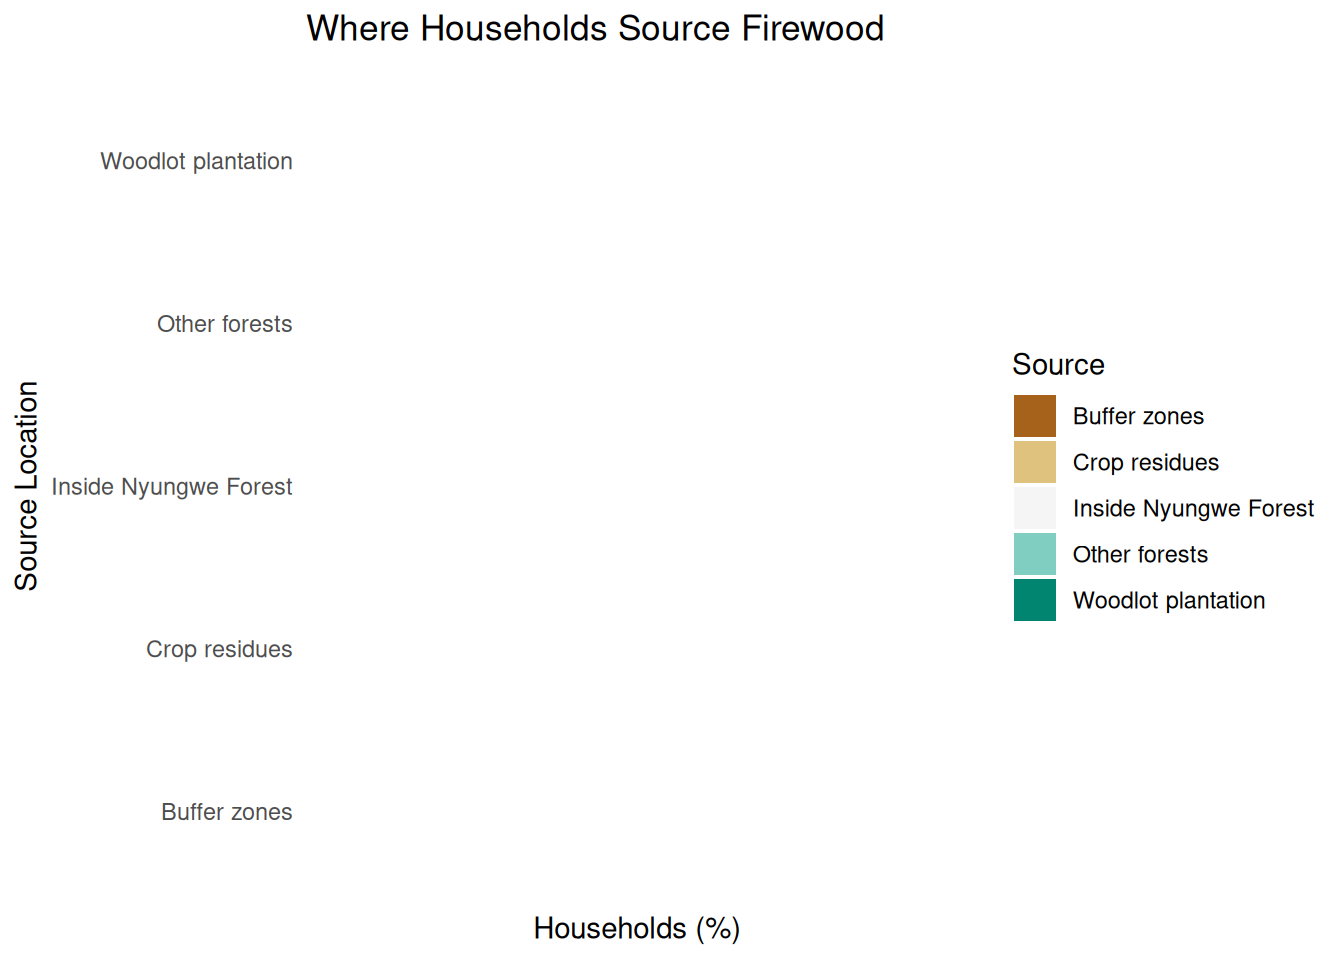
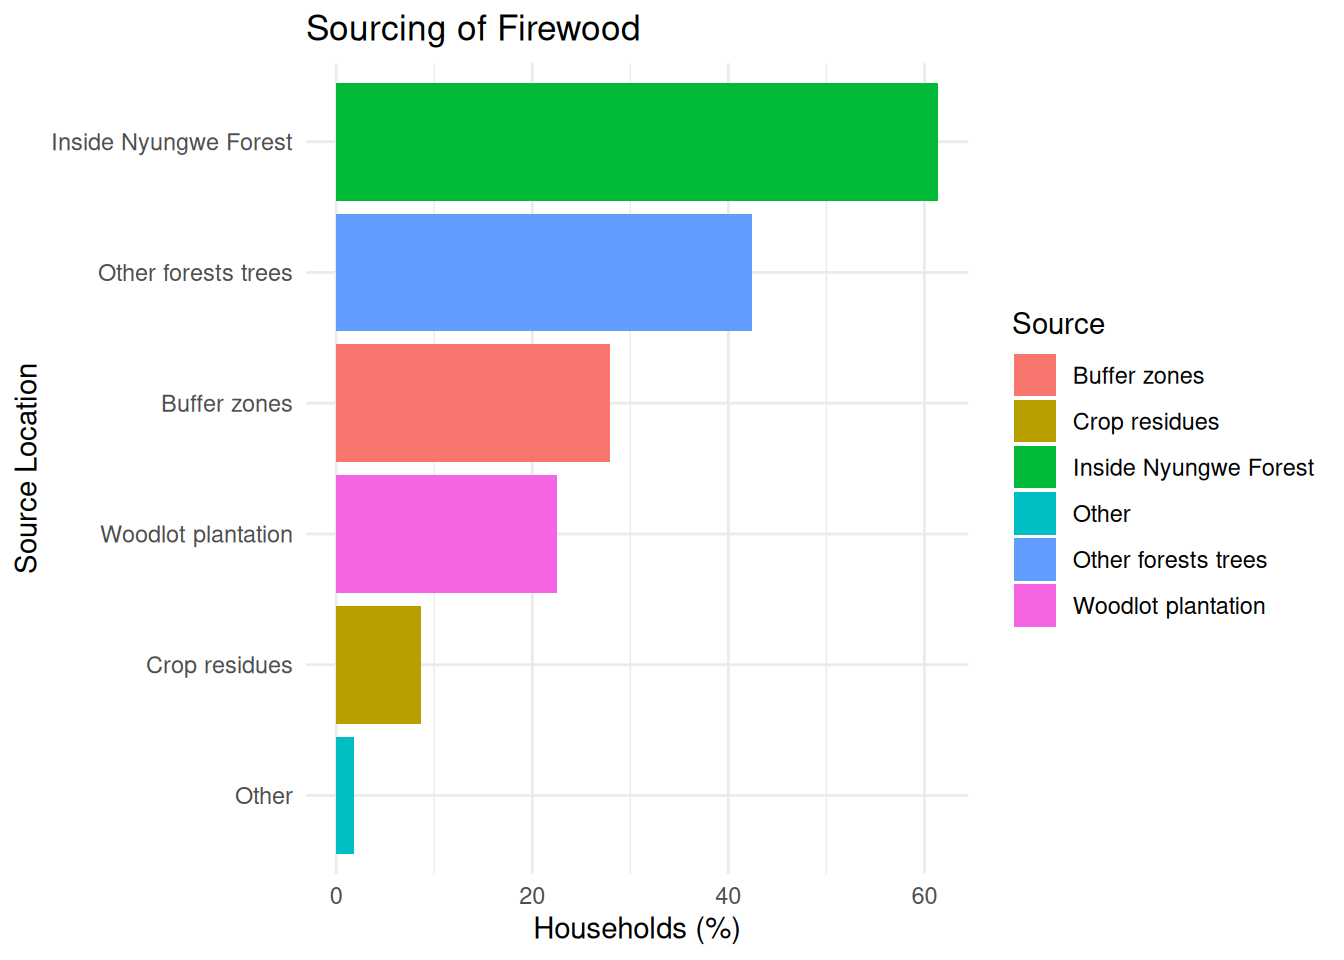
work at the end point

diff --git a/docs/index.html b/docs/index.html
@@ -7,7 +7,7 @@
 <meta name="viewport" content="width=device-width, initial-scale=1.0, user-scalable=yes">
 
 <meta name="author" content="Hategekimana Denys">
-<meta name="dcterms.date" content="2026-07-14">
+<meta name="dcterms.date" content="2026-07-15">
 
 <title>Data Exploration for Park Conservation Assessment</title>
 <style>
@@ -138,7 +138,7 @@ pre > code.sourceCode > span > a:first-child::before { text-decoration: underlin
     <div>
     <div class="quarto-title-meta-heading">Published</div>
     <div class="quarto-title-meta-contents">
-      <p class="date">July 14, 2026</p>
+      <p class="date">July 15, 2026</p>
     </div>
   </div>
   
@@ -1467,31 +1467,26 @@ Figure&nbsp;2: Distribution of household size among surveyed households.
 <div class="cell">
 <div class="code-copy-outer-scaffold"><div class="sourceCode cell-code" id="cb17"><pre class="sourceCode r code-with-copy"><code class="sourceCode r"><span id="cb17-1"><a href="#cb17-1" aria-hidden="true" tabindex="-1"></a>lighting_pct <span class="ot">&lt;-</span> park_data_clean <span class="sc">|&gt;</span></span>
 <span id="cb17-2"><a href="#cb17-2" aria-hidden="true" tabindex="-1"></a>  <span class="fu">summarise</span>(</span>
-<span id="cb17-3"><a href="#cb17-3" aria-hidden="true" tabindex="-1"></a>    <span class="at">Firewood =</span> <span class="fu">mean</span>(x4_1_what_is_the_source_of_lighting_in_your_house_choose_many_as_you_can_firewood, <span class="at">na.rm =</span> <span class="cn">TRUE</span>),</span>
-<span id="cb17-4"><a href="#cb17-4" aria-hidden="true" tabindex="-1"></a>    <span class="at">Solar =</span> <span class="fu">mean</span>(x4_1_what_is_the_source_of_lighting_in_your_house_choose_many_as_you_can_solar_energy, <span class="at">na.rm =</span> <span class="cn">TRUE</span>),</span>
-<span id="cb17-5"><a href="#cb17-5" aria-hidden="true" tabindex="-1"></a>    <span class="at">Grid =</span> <span class="fu">mean</span>(x4_1_what_is_the_source_of_lighting_in_your_house_choose_many_as_you_can_electricity_from_grid, <span class="at">na.rm =</span> <span class="cn">TRUE</span>)</span>
-<span id="cb17-6"><a href="#cb17-6" aria-hidden="true" tabindex="-1"></a>  ) <span class="sc">|&gt;</span></span>
-<span id="cb17-7"><a href="#cb17-7" aria-hidden="true" tabindex="-1"></a>  <span class="fu">pivot_longer</span>(<span class="fu">everything</span>(), <span class="at">names_to =</span> <span class="st">"Source"</span>, <span class="at">values_to =</span> <span class="st">"Share"</span>)</span>
-<span id="cb17-8"><a href="#cb17-8" aria-hidden="true" tabindex="-1"></a></span>
-<span id="cb17-9"><a href="#cb17-9" aria-hidden="true" tabindex="-1"></a><span class="fu">ggplot</span>(</span>
-<span id="cb17-10"><a href="#cb17-10" aria-hidden="true" tabindex="-1"></a>  lighting_pct,</span>
-<span id="cb17-11"><a href="#cb17-11" aria-hidden="true" tabindex="-1"></a>  <span class="fu">aes</span>(<span class="fu">reorder</span>(Source, Share), Share <span class="sc">*</span> <span class="dv">100</span>, <span class="at">fill =</span> Source)</span>
-<span id="cb17-12"><a href="#cb17-12" aria-hidden="true" tabindex="-1"></a>) <span class="sc">+</span></span>
-<span id="cb17-13"><a href="#cb17-13" aria-hidden="true" tabindex="-1"></a>  <span class="fu">geom_col</span>() <span class="sc">+</span></span>
-<span id="cb17-14"><a href="#cb17-14" aria-hidden="true" tabindex="-1"></a>  <span class="fu">coord_flip</span>() <span class="sc">+</span></span>
-<span id="cb17-15"><a href="#cb17-15" aria-hidden="true" tabindex="-1"></a>  <span class="fu">scale_fill_brewer</span>(<span class="at">palette =</span> <span class="st">"Set2"</span>) <span class="sc">+</span></span>
-<span id="cb17-16"><a href="#cb17-16" aria-hidden="true" tabindex="-1"></a>  <span class="fu">labs</span>(</span>
-<span id="cb17-17"><a href="#cb17-17" aria-hidden="true" tabindex="-1"></a>    <span class="at">title =</span> <span class="st">"Household Lighting Sources"</span>,</span>
-<span id="cb17-18"><a href="#cb17-18" aria-hidden="true" tabindex="-1"></a>    <span class="at">x =</span> <span class="st">"Lighting Source"</span>,</span>
-<span id="cb17-19"><a href="#cb17-19" aria-hidden="true" tabindex="-1"></a>    <span class="at">y =</span> <span class="st">"Households (%)"</span>,</span>
-<span id="cb17-20"><a href="#cb17-20" aria-hidden="true" tabindex="-1"></a>    <span class="at">fill =</span> <span class="st">"Source"</span></span>
-<span id="cb17-21"><a href="#cb17-21" aria-hidden="true" tabindex="-1"></a>  ) <span class="sc">+</span></span>
-<span id="cb17-22"><a href="#cb17-22" aria-hidden="true" tabindex="-1"></a>  <span class="fu">theme_minimal</span>()</span></code></pre></div><button title="Copy to Clipboard" class="code-copy-button"><i class="bi"></i></button></div>
+<span id="cb17-3"><a href="#cb17-3" aria-hidden="true" tabindex="-1"></a>    <span class="at">Firewood =</span> <span class="fu">mean</span>(<span class="fu">as.numeric</span>(x4_1_what_is_the_source_of_lighting_in_your_house_choose_many_as_you_can_firewood), <span class="at">na.rm =</span> <span class="cn">TRUE</span>) <span class="sc">*</span> <span class="dv">100</span>,</span>
+<span id="cb17-4"><a href="#cb17-4" aria-hidden="true" tabindex="-1"></a>    <span class="at">Solar    =</span> <span class="fu">mean</span>(<span class="fu">as.numeric</span>(x4_1_what_is_the_source_of_lighting_in_your_house_choose_many_as_you_can_solar_energy), <span class="at">na.rm =</span> <span class="cn">TRUE</span>) <span class="sc">*</span> <span class="dv">100</span>,</span>
+<span id="cb17-5"><a href="#cb17-5" aria-hidden="true" tabindex="-1"></a>    <span class="at">Grid     =</span> <span class="fu">mean</span>(<span class="fu">as.numeric</span>(x4_1_what_is_the_source_of_lighting_in_your_house_choose_many_as_you_can_electricity_from_grid), <span class="at">na.rm =</span> <span class="cn">TRUE</span>) <span class="sc">*</span> <span class="dv">100</span>,</span>
+<span id="cb17-6"><a href="#cb17-6" aria-hidden="true" tabindex="-1"></a>    <span class="at">Torches  =</span> <span class="fu">mean</span>(<span class="fu">as.numeric</span>(x4_1_what_is_the_source_of_lighting_in_your_house_choose_many_as_you_can_torche), <span class="at">na.rm =</span> <span class="cn">TRUE</span>) <span class="sc">*</span> <span class="dv">100</span></span>
+<span id="cb17-7"><a href="#cb17-7" aria-hidden="true" tabindex="-1"></a>  ) <span class="sc">|&gt;</span></span>
+<span id="cb17-8"><a href="#cb17-8" aria-hidden="true" tabindex="-1"></a>  <span class="fu">pivot_longer</span>(<span class="at">cols =</span> <span class="fu">everything</span>(), <span class="at">names_to =</span> <span class="st">"Source"</span>, <span class="at">values_to =</span> <span class="st">"Percent"</span>)</span>
+<span id="cb17-9"><a href="#cb17-9" aria-hidden="true" tabindex="-1"></a></span>
+<span id="cb17-10"><a href="#cb17-10" aria-hidden="true" tabindex="-1"></a><span class="fu">ggplot</span>(lighting_pct, <span class="fu">aes</span>(<span class="at">x =</span> Percent, <span class="at">y =</span> <span class="fu">reorder</span>(Source, Percent), <span class="at">fill =</span> Source)) <span class="sc">+</span></span>
+<span id="cb17-11"><a href="#cb17-11" aria-hidden="true" tabindex="-1"></a>  <span class="fu">geom_col</span>() <span class="sc">+</span></span>
+<span id="cb17-12"><a href="#cb17-12" aria-hidden="true" tabindex="-1"></a>  <span class="fu">labs</span>(</span>
+<span id="cb17-13"><a href="#cb17-13" aria-hidden="true" tabindex="-1"></a>    <span class="at">title =</span> <span class="st">"Household Lighting Sources"</span>,</span>
+<span id="cb17-14"><a href="#cb17-14" aria-hidden="true" tabindex="-1"></a>    <span class="at">x =</span> <span class="st">"Households (%)"</span>,</span>
+<span id="cb17-15"><a href="#cb17-15" aria-hidden="true" tabindex="-1"></a>    <span class="at">y =</span> <span class="st">"Lighting Source"</span></span>
+<span id="cb17-16"><a href="#cb17-16" aria-hidden="true" tabindex="-1"></a>  ) <span class="sc">+</span></span>
+<span id="cb17-17"><a href="#cb17-17" aria-hidden="true" tabindex="-1"></a>  <span class="fu">theme_minimal</span>()</span></code></pre></div><button title="Copy to Clipboard" class="code-copy-button"><i class="bi"></i></button></div>
 <div class="cell-output-display">
-<div id="fig-lighting-sources" class="quarto-float quarto-figure quarto-figure-center anchored" alt="Horizontal bar chart of household lighting sources, comparing the shares of households using firewood, solar energy, and grid electricity for lighting.">
+<div id="fig-lighting-sources" class="quarto-float quarto-figure quarto-figure-center anchored" alt="Horizontal bar chart of household lighting sources, comparing the shares of households using firewood, solar energy, grid electricity, and handheld torches for lighting.">
 <figure class="quarto-float quarto-float-fig figure">
 <div aria-describedby="fig-lighting-sources-caption-0ceaefa1-69ba-4598-a22c-09a6ac19f8ca">
-<img src="index_files/figure-html/fig-lighting-sources-1.png" class="img-fluid figure-img" alt="Horizontal bar chart of household lighting sources, comparing the shares of households using firewood, solar energy, and grid electricity for lighting." width="672">
+<img src="index_files/figure-html/fig-lighting-sources-1.png" class="img-fluid figure-img" alt="Horizontal bar chart of household lighting sources, comparing the shares of households using firewood, solar energy, grid electricity, and handheld torches for lighting." width="672">
 </div>
 <figcaption class="quarto-float-caption-bottom quarto-float-caption quarto-float-fig" id="fig-lighting-sources-caption-0ceaefa1-69ba-4598-a22c-09a6ac19f8ca">
 Figure&nbsp;3: Share of households using each lighting source.
@@ -1500,18 +1495,18 @@ Figure&nbsp;3: Share of households using each lighting source.
 </div>
 </div>
 </div>
-<p><a href="#fig-lighting-sources" class="quarto-xref">Figure&nbsp;3</a> summarizes the proportion of households using different lighting sources (households may use more than one, so shares do not sum to 100%). <!-- NOTE: your original narrative also mentioned "handheld torches" (41.9%) as the top lighting source, but there is no torch variable in this code chunk 鈥� add it here if that column exists in the raw data, or remove the torches claim from the narrative below. --> Based on the sources currently computed, grid electricity and solar energy each cover roughly a quarter of households, while firewood remains a meaningful minority lighting source. This partial electrification stands in contrast to cooking energy, where clean alternatives are almost entirely absent.</p>
+<p><a href="#fig-lighting-sources" class="quarto-xref">Figure&nbsp;3</a> summarizes the proportion of households using different lighting sources (households may use more than one, so shares do not sum to 100%). Handheld torches are the most common lighting source, used by roughly 42% of households, followed by grid electricity and solar energy, each covering about a quarter of households, while firewood remains a meaningful minority lighting source. This heavy reliance on torches, alongside partial electrification, stands in contrast to cooking energy, where clean alternatives are almost entirely absent.</p>
 </section>
 <section id="cooking-energy-sources" class="level2">
 <h2 class="anchored" data-anchor-id="cooking-energy-sources">Cooking Energy Sources</h2>
 <div class="cell">
 <div class="code-copy-outer-scaffold"><div class="sourceCode cell-code" id="cb18"><pre class="sourceCode r code-with-copy"><code class="sourceCode r"><span id="cb18-1"><a href="#cb18-1" aria-hidden="true" tabindex="-1"></a>cooking_pct <span class="ot">&lt;-</span> park_data_clean <span class="sc">|&gt;</span></span>
 <span id="cb18-2"><a href="#cb18-2" aria-hidden="true" tabindex="-1"></a>  <span class="fu">summarise</span>(</span>
-<span id="cb18-3"><a href="#cb18-3" aria-hidden="true" tabindex="-1"></a>    <span class="at">Firewood =</span> <span class="fu">mean</span>(x4_2_what_is_your_main_source_of_energy_for_cooking_at_your_household_choose_many_as_you_can_firewood, <span class="at">na.rm =</span> <span class="cn">TRUE</span>),</span>
-<span id="cb18-4"><a href="#cb18-4" aria-hidden="true" tabindex="-1"></a>    <span class="at">Charcoal =</span> <span class="fu">mean</span>(x4_2_what_is_your_main_source_of_energy_for_cooking_at_your_household_choose_many_as_you_can_charcoal, <span class="at">na.rm =</span> <span class="cn">TRUE</span>),</span>
-<span id="cb18-5"><a href="#cb18-5" aria-hidden="true" tabindex="-1"></a>    <span class="at">Electricity =</span> <span class="fu">mean</span>(x4_2_what_is_your_main_source_of_energy_for_cooking_at_your_household_choose_many_as_you_can_electricity, <span class="at">na.rm =</span> <span class="cn">TRUE</span>),</span>
-<span id="cb18-6"><a href="#cb18-6" aria-hidden="true" tabindex="-1"></a>    <span class="at">Biogas =</span> <span class="fu">mean</span>(x4_2_what_is_your_main_source_of_energy_for_cooking_at_your_household_choose_many_as_you_can_biogaz, <span class="at">na.rm =</span> <span class="cn">TRUE</span>),</span>
-<span id="cb18-7"><a href="#cb18-7" aria-hidden="true" tabindex="-1"></a>    <span class="at">Propane =</span> <span class="fu">mean</span>(x4_2_what_is_your_main_source_of_energy_for_cooking_at_your_household_choose_many_as_you_can_propane_gaz, <span class="at">na.rm =</span> <span class="cn">TRUE</span>)</span>
+<span id="cb18-3"><a href="#cb18-3" aria-hidden="true" tabindex="-1"></a>    <span class="at">Firewood =</span> <span class="fu">mean</span>(<span class="fu">as.numeric</span>(x4_2_what_is_your_main_source_of_energy_for_cooking_at_your_household_choose_many_as_you_can_firewood), <span class="at">na.rm =</span> <span class="cn">TRUE</span>),</span>
+<span id="cb18-4"><a href="#cb18-4" aria-hidden="true" tabindex="-1"></a>    <span class="at">Charcoal =</span> <span class="fu">mean</span>(<span class="fu">as.numeric</span>(x4_2_what_is_your_main_source_of_energy_for_cooking_at_your_household_choose_many_as_you_can_charcoal), <span class="at">na.rm =</span> <span class="cn">TRUE</span>),</span>
+<span id="cb18-5"><a href="#cb18-5" aria-hidden="true" tabindex="-1"></a>    <span class="at">Electricity =</span> <span class="fu">mean</span>(<span class="fu">as.numeric</span>(x4_2_what_is_your_main_source_of_energy_for_cooking_at_your_household_choose_many_as_you_can_electricity), <span class="at">na.rm =</span> <span class="cn">TRUE</span>),</span>
+<span id="cb18-6"><a href="#cb18-6" aria-hidden="true" tabindex="-1"></a>    <span class="at">Biogas =</span> <span class="fu">mean</span>(<span class="fu">as.numeric</span>(x4_2_what_is_your_main_source_of_energy_for_cooking_at_your_household_choose_many_as_you_can_biogaz), <span class="at">na.rm =</span> <span class="cn">TRUE</span>),</span>
+<span id="cb18-7"><a href="#cb18-7" aria-hidden="true" tabindex="-1"></a>    <span class="at">Propane =</span> <span class="fu">mean</span>(<span class="fu">as.numeric</span>(x4_2_what_is_your_main_source_of_energy_for_cooking_at_your_household_choose_many_as_you_can_propane_gaz), <span class="at">na.rm =</span> <span class="cn">TRUE</span>)</span>
 <span id="cb18-8"><a href="#cb18-8" aria-hidden="true" tabindex="-1"></a>  ) <span class="sc">|&gt;</span></span>
 <span id="cb18-9"><a href="#cb18-9" aria-hidden="true" tabindex="-1"></a>  <span class="fu">pivot_longer</span>(<span class="fu">everything</span>(), <span class="at">names_to =</span> <span class="st">"Source"</span>, <span class="at">values_to =</span> <span class="st">"Share"</span>)</span>
 <span id="cb18-10"><a href="#cb18-10" aria-hidden="true" tabindex="-1"></a></span>
@@ -1542,43 +1537,39 @@ Figure&nbsp;4: Share of households using each cooking energy source.
 </div>
 </div>
 </div>
-<p><a href="#fig-cooking-sources" class="quarto-xref">Figure&nbsp;4</a> summarizes the proportion of households using different cooking energy sources. Dependence on firewood is close to universal: 98.8% of households cook with firewood, and 14.1% supplement it with charcoal. Electricity, biogas, and propane are reported by essentially no households in this sample. Unlike lighting, cooking energy shows almost no diversification 鈥� firewood is not one option among several but the default fuel for nearly every household in the survey area.</p>
+<p><a href="#fig-cooking-sources" class="quarto-xref">Figure&nbsp;4</a> summarizes the proportion of households using different cooking energy sources. Dependence on firewood is close to universal: 98.8% of households cook with firewood, and 14.1% supplement it with charcoal. Electricity, biogas, and propane are reported by essentially no households in this sample. Unlike lighting, cooking energy shows almost no diversification firewood is not one option among several but the default fuel for nearly every household in the survey area.</p>
 </section>
 <section id="sourcing-of-firewood" class="level2">
 <h2 class="anchored" data-anchor-id="sourcing-of-firewood">Sourcing of Firewood</h2>
 <div class="cell">
 <div class="code-copy-outer-scaffold"><div class="sourceCode cell-code" id="cb19"><pre class="sourceCode r code-with-copy"><code class="sourceCode r"><span id="cb19-1"><a href="#cb19-1" aria-hidden="true" tabindex="-1"></a>firewood_source_pct <span class="ot">&lt;-</span> park_data_clean <span class="sc">|&gt;</span></span>
 <span id="cb19-2"><a href="#cb19-2" aria-hidden="true" tabindex="-1"></a>  <span class="fu">summarise</span>(</span>
-<span id="cb19-3"><a href="#cb19-3" aria-hidden="true" tabindex="-1"></a>    <span class="st">`</span><span class="at">Inside Nyungwe Forest</span><span class="st">`</span> <span class="ot">=</span> <span class="fu">mean</span>(x4_4_specifically_if_u_use_firewood_in_both_cases_lighting_and_or_cooking_where_do_source_them_inside_the_nyungwe_forest, <span class="at">na.rm =</span> <span class="cn">TRUE</span>),</span>
-<span id="cb19-4"><a href="#cb19-4" aria-hidden="true" tabindex="-1"></a>    <span class="st">`</span><span class="at">Other forests</span><span class="st">`</span> <span class="ot">=</span> <span class="fu">mean</span>(x4_4_specifically_if_u_use_firewood_in_both_cases_lighting_and_or_cooking_where_do_source_them_from_other_forests_trees, <span class="at">na.rm =</span> <span class="cn">TRUE</span>),</span>
-<span id="cb19-5"><a href="#cb19-5" aria-hidden="true" tabindex="-1"></a>    <span class="st">`</span><span class="at">Buffer zones</span><span class="st">`</span> <span class="ot">=</span> <span class="fu">mean</span>(x4_4_specifically_if_u_use_firewood_in_both_cases_lighting_and_or_cooking_where_do_source_them_buffer_zones, <span class="at">na.rm =</span> <span class="cn">TRUE</span>),</span>
-<span id="cb19-6"><a href="#cb19-6" aria-hidden="true" tabindex="-1"></a>    <span class="st">`</span><span class="at">Woodlot plantation</span><span class="st">`</span> <span class="ot">=</span> <span class="fu">mean</span>(x4_4_specifically_if_u_use_firewood_in_both_cases_lighting_and_or_cooking_where_do_source_them_woodrot_plantation, <span class="at">na.rm =</span> <span class="cn">TRUE</span>),</span>
-<span id="cb19-7"><a href="#cb19-7" aria-hidden="true" tabindex="-1"></a>    <span class="st">`</span><span class="at">Crop residues</span><span class="st">`</span> <span class="ot">=</span> <span class="fu">mean</span>(x4_4_specifically_if_u_use_firewood_in_both_cases_lighting_and_or_cooking_where_do_source_them_crops_residues, <span class="at">na.rm =</span> <span class="cn">TRUE</span>)</span>
-<span id="cb19-8"><a href="#cb19-8" aria-hidden="true" tabindex="-1"></a>  ) <span class="sc">|&gt;</span></span>
-<span id="cb19-9"><a href="#cb19-9" aria-hidden="true" tabindex="-1"></a>  <span class="fu">pivot_longer</span>(<span class="fu">everything</span>(), <span class="at">names_to =</span> <span class="st">"Source"</span>, <span class="at">values_to =</span> <span class="st">"Share"</span>)</span>
-<span id="cb19-10"><a href="#cb19-10" aria-hidden="true" tabindex="-1"></a></span>
-<span id="cb19-11"><a href="#cb19-11" aria-hidden="true" tabindex="-1"></a><span class="fu">ggplot</span>(</span>
-<span id="cb19-12"><a href="#cb19-12" aria-hidden="true" tabindex="-1"></a>  firewood_source_pct,</span>
-<span id="cb19-13"><a href="#cb19-13" aria-hidden="true" tabindex="-1"></a>  <span class="fu">aes</span>(<span class="fu">reorder</span>(Source, Share), Share <span class="sc">*</span> <span class="dv">100</span>, <span class="at">fill =</span> Source)</span>
-<span id="cb19-14"><a href="#cb19-14" aria-hidden="true" tabindex="-1"></a>) <span class="sc">+</span></span>
-<span id="cb19-15"><a href="#cb19-15" aria-hidden="true" tabindex="-1"></a>  <span class="fu">geom_col</span>() <span class="sc">+</span></span>
-<span id="cb19-16"><a href="#cb19-16" aria-hidden="true" tabindex="-1"></a>  <span class="fu">coord_flip</span>() <span class="sc">+</span></span>
-<span id="cb19-17"><a href="#cb19-17" aria-hidden="true" tabindex="-1"></a>  <span class="fu">scale_fill_brewer</span>(<span class="at">palette =</span> <span class="st">"BrBG"</span>) <span class="sc">+</span></span>
-<span id="cb19-18"><a href="#cb19-18" aria-hidden="true" tabindex="-1"></a>  <span class="fu">labs</span>(</span>
-<span id="cb19-19"><a href="#cb19-19" aria-hidden="true" tabindex="-1"></a>    <span class="at">title =</span> <span class="st">"Where Households Source Firewood"</span>,</span>
-<span id="cb19-20"><a href="#cb19-20" aria-hidden="true" tabindex="-1"></a>    <span class="at">x =</span> <span class="st">"Source Location"</span>,</span>
-<span id="cb19-21"><a href="#cb19-21" aria-hidden="true" tabindex="-1"></a>    <span class="at">y =</span> <span class="st">"Households (%)"</span>,</span>
-<span id="cb19-22"><a href="#cb19-22" aria-hidden="true" tabindex="-1"></a>    <span class="at">fill =</span> <span class="st">"Source"</span></span>
-<span id="cb19-23"><a href="#cb19-23" aria-hidden="true" tabindex="-1"></a>  ) <span class="sc">+</span></span>
-<span id="cb19-24"><a href="#cb19-24" aria-hidden="true" tabindex="-1"></a>  <span class="fu">theme_minimal</span>()</span></code></pre></div><button title="Copy to Clipboard" class="code-copy-button"><i class="bi"></i></button></div>
+<span id="cb19-3"><a href="#cb19-3" aria-hidden="true" tabindex="-1"></a>    <span class="at">Inside_Nyungwe_Forest =</span> <span class="fu">mean</span>(<span class="fu">as.numeric</span>(x4_4_specifically_if_u_use_firewood_in_both_cases_lighting_and_or_cooking_where_do_source_them_inside_the_nyungwe_forest), <span class="at">na.rm =</span> <span class="cn">TRUE</span>) <span class="sc">*</span> <span class="dv">100</span>,</span>
+<span id="cb19-4"><a href="#cb19-4" aria-hidden="true" tabindex="-1"></a>    <span class="at">Other_forests_trees   =</span> <span class="fu">mean</span>(<span class="fu">as.numeric</span>(x4_4_specifically_if_u_use_firewood_in_both_cases_lighting_and_or_cooking_where_do_source_them_from_other_forests_trees), <span class="at">na.rm =</span> <span class="cn">TRUE</span>) <span class="sc">*</span> <span class="dv">100</span>,</span>
+<span id="cb19-5"><a href="#cb19-5" aria-hidden="true" tabindex="-1"></a>    <span class="at">Buffer_zones          =</span> <span class="fu">mean</span>(<span class="fu">as.numeric</span>(x4_4_specifically_if_u_use_firewood_in_both_cases_lighting_and_or_cooking_where_do_source_them_buffer_zones), <span class="at">na.rm =</span> <span class="cn">TRUE</span>) <span class="sc">*</span> <span class="dv">100</span>,</span>
+<span id="cb19-6"><a href="#cb19-6" aria-hidden="true" tabindex="-1"></a>    <span class="at">Woodlot_plantation    =</span> <span class="fu">mean</span>(<span class="fu">as.numeric</span>(x4_4_specifically_if_u_use_firewood_in_both_cases_lighting_and_or_cooking_where_do_source_them_woodrot_plantation), <span class="at">na.rm =</span> <span class="cn">TRUE</span>) <span class="sc">*</span> <span class="dv">100</span>,</span>
+<span id="cb19-7"><a href="#cb19-7" aria-hidden="true" tabindex="-1"></a>    <span class="at">Crop_residues         =</span> <span class="fu">mean</span>(<span class="fu">as.numeric</span>(x4_4_specifically_if_u_use_firewood_in_both_cases_lighting_and_or_cooking_where_do_source_them_crops_residues), <span class="at">na.rm =</span> <span class="cn">TRUE</span>) <span class="sc">*</span> <span class="dv">100</span>,</span>
+<span id="cb19-8"><a href="#cb19-8" aria-hidden="true" tabindex="-1"></a>    <span class="at">Other                 =</span> <span class="fu">mean</span>(<span class="fu">as.numeric</span>(x4_4_specifically_if_u_use_firewood_in_both_cases_lighting_and_or_cooking_where_do_source_them_others), <span class="at">na.rm =</span> <span class="cn">TRUE</span>) <span class="sc">*</span> <span class="dv">100</span></span>
+<span id="cb19-9"><a href="#cb19-9" aria-hidden="true" tabindex="-1"></a>  ) <span class="sc">|&gt;</span></span>
+<span id="cb19-10"><a href="#cb19-10" aria-hidden="true" tabindex="-1"></a>  <span class="fu">pivot_longer</span>(<span class="at">cols =</span> <span class="fu">everything</span>(), <span class="at">names_to =</span> <span class="st">"Source"</span>, <span class="at">values_to =</span> <span class="st">"Percent"</span>) <span class="sc">|&gt;</span></span>
+<span id="cb19-11"><a href="#cb19-11" aria-hidden="true" tabindex="-1"></a>  <span class="fu">mutate</span>(<span class="at">Source =</span> <span class="fu">str_replace_all</span>(Source, <span class="st">"_"</span>, <span class="st">" "</span>))</span>
+<span id="cb19-12"><a href="#cb19-12" aria-hidden="true" tabindex="-1"></a></span>
+<span id="cb19-13"><a href="#cb19-13" aria-hidden="true" tabindex="-1"></a><span class="fu">ggplot</span>(firewood_source_pct, <span class="fu">aes</span>(<span class="at">x =</span> Percent, <span class="at">y =</span> <span class="fu">reorder</span>(Source, Percent), <span class="at">fill =</span> Source)) <span class="sc">+</span></span>
+<span id="cb19-14"><a href="#cb19-14" aria-hidden="true" tabindex="-1"></a>  <span class="fu">geom_col</span>() <span class="sc">+</span></span>
+<span id="cb19-15"><a href="#cb19-15" aria-hidden="true" tabindex="-1"></a>  <span class="fu">labs</span>(</span>
+<span id="cb19-16"><a href="#cb19-16" aria-hidden="true" tabindex="-1"></a>    <span class="at">title =</span> <span class="st">"Sourcing of Firewood"</span>,</span>
+<span id="cb19-17"><a href="#cb19-17" aria-hidden="true" tabindex="-1"></a>    <span class="at">x =</span> <span class="st">"Households (%)"</span>,</span>
+<span id="cb19-18"><a href="#cb19-18" aria-hidden="true" tabindex="-1"></a>    <span class="at">y =</span> <span class="st">"Source Location"</span></span>
+<span id="cb19-19"><a href="#cb19-19" aria-hidden="true" tabindex="-1"></a>  ) <span class="sc">+</span></span>
+<span id="cb19-20"><a href="#cb19-20" aria-hidden="true" tabindex="-1"></a>  <span class="fu">theme_minimal</span>()</span></code></pre></div><button title="Copy to Clipboard" class="code-copy-button"><i class="bi"></i></button></div>
 <div class="cell-output-display">
-<div id="fig-firewood-sourcing" class="quarto-float quarto-figure quarto-figure-center anchored" alt="Horizontal bar chart showing the share of firewood-using households sourcing wood from inside Nyungwe National Park, other forests, buffer zones, woodlot plantations, and crop residues.">
+<div id="fig-firewood-sourcing" class="quarto-float quarto-figure quarto-figure-center anchored" alt="Horizontal bar chart showing that most households source firewood from inside Nyungwe Forest itself, followed by other forests, buffer zones, woodlot plantations, and crop residues.">
 <figure class="quarto-float quarto-float-fig figure">
 <div aria-describedby="fig-firewood-sourcing-caption-0ceaefa1-69ba-4598-a22c-09a6ac19f8ca">
-<img src="index_files/figure-html/fig-firewood-sourcing-1.png" class="img-fluid figure-img" alt="Horizontal bar chart showing the share of firewood-using households sourcing wood from inside Nyungwe National Park, other forests, buffer zones, woodlot plantations, and crop residues." width="672">
+<img src="index_files/figure-html/fig-firewood-sourcing-1.png" class="img-fluid figure-img" alt="Horizontal bar chart showing that most households source firewood from inside Nyungwe Forest itself, followed by other forests, buffer zones, woodlot plantations, and crop residues." width="672">
 </div>
 <figcaption class="quarto-float-caption-bottom quarto-float-caption quarto-float-fig" id="fig-firewood-sourcing-caption-0ceaefa1-69ba-4598-a22c-09a6ac19f8ca">
-Figure&nbsp;5: Where firewood-using households source their firewood.
+Figure&nbsp;5: Where households source firewood for lighting and/or cooking.
 </figcaption>
 </figure>
 </div>
@@ -1592,7 +1583,7 @@ Figure&nbsp;5: Where firewood-using households source their firewood.
 </section>
 <section id="discussion" class="level1">
 <h1>Discussion</h1>
-<p>The exploratory analysis indicates that household livelihoods around Nyungwe National Park remain closely linked to energy use and natural resources. Household size varies considerably across the sample (1鈥�14 members, mean 4.8), and larger households represent proportionally greater fuelwood demand, since almost all cooking energy in this population comes from firewood.</p>
+<p>The exploratory analysis indicates that household livelihoods around Nyungwe National Park remain closely linked to energy use and natural resources. Household size varies considerably across the sample 4 members, mean 4.8), and larger households represent proportionally greater fuelwood demand, since almost all cooking energy in this population comes from firewood.</p>
 <p>Three patterns stand out for conservation and livelihood planning:</p>
 <ol type="1">
 <li><p><strong>Cooking is the binding constraint, not lighting.</strong> Lighting sources are already partially diversified, but cooking energy shows almost no diversification. With 98.8% of households cooking on firewood, any REDD+ or clean-energy intervention aimed at reducing forest pressure has to address cooking fuel specifically; improving lighting access alone would leave the dominant driver of biomass extraction untouched.</p></li>
@@ -1605,7 +1596,7 @@ Figure&nbsp;5: Where firewood-using households source their firewood.
 <ul>
 <li>Cooking energy is dominated by firewood (98.8% of households), with almost no diversification toward electricity, biogas, or propane.</li>
 <li>Lighting is more diversified than cooking, with grid electricity and solar energy already reaching a meaningful share of households.</li>
-<li>Most firewood-using households (61.4%) source wood directly from inside Nyungwe National Park, rather than from managed woodlots (22.5%) or other alternatives 鈥� the strongest signal for REDD+ targeting.</li>
+<li>Most firewood-using households (61.4%) source wood directly from inside Nyungwe National Park, rather than from managed woodlots (22.5%) or other alternatives the strongest signal for REDD+ targeting.</li>
 <li>Reported cash expenditure on energy captures only a minority of households (195 of 765) and likely understates true energy costs, since most households rely on unpaid collection labor rather than purchased fuel.</li>
 <li>Fuel-efficient cookstove programs and expanded woodlot/agroforestry supply are the interventions best matched to the data, since they jointly address the dominant driver (cooking) and the dominant supply constraint (reliance on the core forest).</li>
 <li>Future monitoring should track the share of households sourcing firewood from inside the park versus buffer zones/plantations over time, alongside cookstove adoption, given the high non-response rate (74%) on the expenditure question.</li>